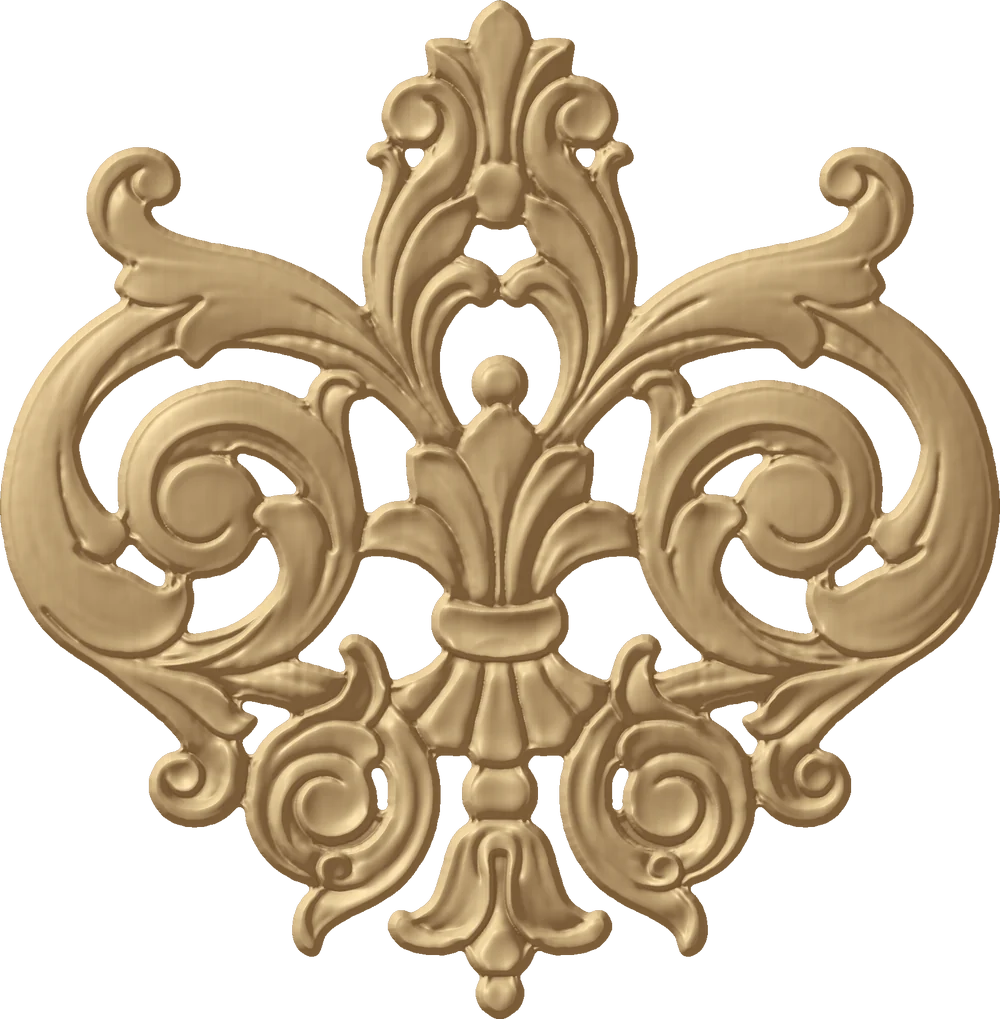
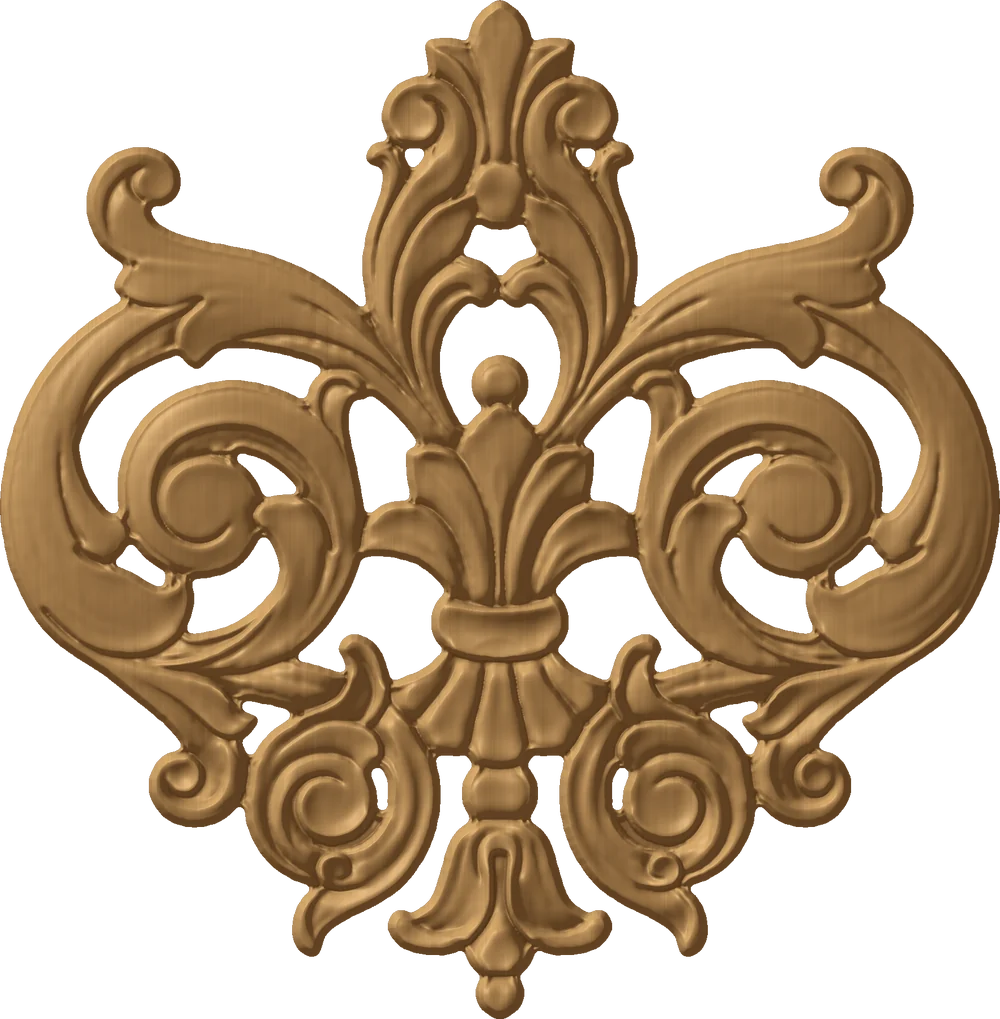
Дуб: готовый щит в цене, 3 104–5 919 лей
Материал — дубовый щит, калиброванный по толщине (T+1 мм), без
выравнивания на станке; подачи снижены для дуба, новые сроки.

Claude-Session: https://claude.ai/code/session_01KJBkVkUhEWh2dacgyC9bhs

diff --git a/index.html b/index.html
@@ -4,7 +4,7 @@
 <meta charset="utf-8">
 <meta name="viewport" content="width=device-width, initial-scale=1">
 <title>Коммерческое предложение: барочный орнамент 450 × 458 мм</title>
-<meta name="description" content="Барочный орнамент из липы 450 × 458 мм, 4 толщины: 9, 12, 20 и 30 мм. Изготовление на ЧПУ в Кишинёве из щита заказчика: от 2 239 до 4 134 лей.">
+<meta name="description" content="Барочный орнамент из дуба 450 × 458 мм, 4 толщины: 9, 12, 20 и 30 мм. Цена готового изделия от 3 104 до 5 919 лей. Изготовление на ЧПУ в Кишинёве.">
 <meta name="theme-color" content="#5E2A22">
 <style>@font-face{font-family:'Cormorant Garamond';font-style:normal;font-weight:600;font-display:swap;src:url(fonts/cormorant-garamond-cyrillic-600-normal.woff2) format('woff2');unicode-range:U+0301,U+0400-045F,U+0490-0491,U+04B0-04B1,U+2116}@font-face{font-family:'Cormorant Garamond';font-style:normal;font-weight:600;font-display:swap;src:url(fonts/cormorant-garamond-latin-600-normal.woff2) format('woff2');unicode-range:U+0000-00FF,U+0131,U+0152-0153,U+02BB-02BC,U+02C6,U+02DA,U+02DC,U+0304,U+0308,U+0329,U+2000-206F,U+20AC,U+2122,U+2191,U+2193,U+2212,U+2215,U+FEFF,U+FFFD}@font-face{font-family:'Golos Text';font-style:normal;font-weight:400;font-display:swap;src:url(fonts/golos-text-cyrillic-400-normal.woff2) format('woff2');unicode-range:U+0301,U+0400-045F,U+0490-0491,U+04B0-04B1,U+2116}@font-face{font-family:'Golos Text';font-style:normal;font-weight:400;font-display:swap;src:url(fonts/golos-text-latin-400-normal.woff2) format('woff2');unicode-range:U+0000-00FF,U+0131,U+0152-0153,U+02BB-02BC,U+02C6,U+02DA,U+02DC,U+0304,U+0308,U+0329,U+2000-206F,U+20AC,U+2122,U+2191,U+2193,U+2212,U+2215,U+FEFF,U+FFFD}@font-face{font-family:'Golos Text';font-style:normal;font-weight:500;font-display:swap;src:url(fonts/golos-text-cyrillic-500-normal.woff2) format('woff2');unicode-range:U+0301,U+0400-045F,U+0490-0491,U+04B0-04B1,U+2116}@font-face{font-family:'Golos Text';font-style:normal;font-weight:500;font-display:swap;src:url(fonts/golos-text-latin-500-normal.woff2) format('woff2');unicode-range:U+0000-00FF,U+0131,U+0152-0153,U+02BB-02BC,U+02C6,U+02DA,U+02DC,U+0304,U+0308,U+0329,U+2000-206F,U+20AC,U+2122,U+2191,U+2193,U+2212,U+2215,U+FEFF,U+FFFD}@font-face{font-family:'Golos Text';font-style:normal;font-weight:600;font-display:swap;src:url(fonts/golos-text-cyrillic-600-normal.woff2) format('woff2');unicode-range:U+0301,U+0400-045F,U+0490-0491,U+04B0-04B1,U+2116}@font-face{font-family:'Golos Text';font-style:normal;font-weight:600;font-display:swap;src:url(fonts/golos-text-latin-600-normal.woff2) format('woff2');unicode-range:U+0000-00FF,U+0131,U+0152-0153,U+02BB-02BC,U+02C6,U+02DA,U+02DC,U+0304,U+0308,U+0329,U+2000-206F,U+20AC,U+2122,U+2191,U+2193,U+2212,U+2215,U+FEFF,U+FFFD}
 :root{--bole:#5E2A22;--bole-deep:#43201A;--gilt:#C9A24E;--linden:#F2E6CC;--tint:#F7F1E5;--ink:#2B1D17;--muted:#6E5B4E;--rule:#E5DACA;
@@ -72,13 +72,13 @@ footer{background:var(--bole);color:var(--linden);margin-top:24px}
 <header class="hero"><div class="hero-in">
 <div class="copy">
 <p class="kicker">Коммерческое предложение от 25 ноября 2026 г.</p>
-<h1>Барочный орнамент из липы</h1>
+<h1>Барочный орнамент из дуба</h1>
 <p class="size">450 × 458 мм, на выбор четыре толщины: 9, 12, 20 и 30 мм</p>
-<p class="lead">Точная копия согласованной 3D-модели из вашего щита липы: объёмный рельеф с проработкой листьев и завитков, 20 ажурных отверстий, плавные скруглённые кромки без сколов. Изделие шлифуется, покрывается матовым лаком в 2 слоя и упаковывается — готово к продаже или монтажу.</p>
+<p class="lead">Точная копия согласованной 3D-модели в массиве дуба: объёмный рельеф с проработкой листьев и завитков, 20 ажурных отверстий, плавные скруглённые кромки без сколов. Изделие шлифуется, покрывается матовым лаком в 2 слоя и упаковывается — готово к продаже или монтажу.</p>
 <div class="actions"><a class="btn call" href="tel:+37361198777">Позвонить: 061 198 777</a><a class="btn" href="https://ornament-3th.pages.dev">Открыть 3D-модель</a></div>
 </div>
 <div class="figure"><svg class="dwg" viewBox="-14 -58 524 532" role="img" aria-labelledby="dwg-t">
-<title id="dwg-t">Орнамент из липы, габарит 450 на 458 мм</title>
+<title id="dwg-t">Орнамент из дуба, габарит 450 на 458 мм</title>
 <defs><filter id="sh" x="-10%" y="-10%" width="120%" height="125%"><feDropShadow dx="3" dy="9" stdDeviation="7" flood-color="#1d0b07" flood-opacity=".55"/></filter>
 <marker id="ar" viewBox="0 0 10 10" refX="10" refY="5" markerWidth="9" markerHeight="9" orient="auto-start-reverse"><path d="M0,1.5 L10,5 L0,8.5" fill="none" stroke="#C9A24E" stroke-width="1.4"/></marker></defs>
 <image href="ornament.webp" x="0" y="0" width="450" height="458.4" preserveAspectRatio="none" filter="url(#sh)"/>
@@ -93,38 +93,37 @@ footer{background:var(--bole);color:var(--linden);margin-top:24px}
 <main>
 <section id="cena">
 <h2>Цена готового изделия</h2>
-<p>Цена за 1 шт. включает изготовление на ЧПУ, ручную доработку, лак и упаковку; склеенный щит из липы — от заказчика. Чем толще изделие, тем глубже рельеф; сечения ниже показаны в одном масштабе.</p>
-<div class="opts"><div class="opt"><svg class="sec" viewBox="0 0 160 130" preserveAspectRatio="xMinYMax meet" role="img" aria-label="Сечение 9 мм в масштабе"><rect x="0" y="114.0" width="160" height="12.0" class="sec-base"/><path d="M0,114.0 L0.0,97.9 L5.0,99.3 L10.0,99.8 L15.0,99.1 L20.0,97.5 L25.0,95.4 L30.0,93.2 L35.0,91.5 L40.0,90.4 L45.0,90.0 L50.0,90.2 L55.0,90.7 L60.0,91.2 L65.0,91.5 L70.0,91.6 L75.0,91.5 L80.0,91.2 L85.0,91.0 L90.0,90.8 L95.0,90.7 L100.0,90.5 L105.0,90.3 L110.0,90.1 L115.0,90.0 L120.0,90.2 L125.0,90.8 L130.0,91.9 L135.0,93.6 L140.0,95.4 L145.0,97.0 L150.0,98.1 L155.0,98.2 L160.0,97.4 L160,114.0 Z" class="sec-relief"/><line x1="0" y1="126.5" x2="160" y2="126.5" class="sec-ground"/></svg><p class="opt-t">9 мм</p><p class="opt-p">2 239 лей</p><p class="opt-d">Рельеф до 6 мм<br>Станок 5,0 ч</p></div>
-<div class="opt"><svg class="sec" viewBox="0 0 160 130" preserveAspectRatio="xMinYMax meet" role="img" aria-label="Сечение 12 мм в масштабе"><rect x="0" y="114.0" width="160" height="12.0" class="sec-base"/><path d="M0,114.0 L0.0,89.8 L5.0,92.0 L10.0,92.7 L15.0,91.7 L20.0,89.3 L25.0,86.1 L30.0,82.8 L35.0,80.2 L40.0,78.6 L45.0,78.0 L50.0,78.3 L55.0,79.0 L60.0,79.8 L65.0,80.3 L70.0,80.4 L75.0,80.2 L80.0,79.8 L85.0,79.5 L90.0,79.2 L95.0,79.0 L100.0,78.8 L105.0,78.5 L110.0,78.2 L115.0,78.0 L120.0,78.3 L125.0,79.2 L130.0,80.9 L135.0,83.3 L140.0,86.1 L145.0,88.5 L150.0,90.1 L155.0,90.3 L160.0,89.1 L160,114.0 Z" class="sec-relief"/><line x1="0" y1="126.5" x2="160" y2="126.5" class="sec-ground"/></svg><p class="opt-t">12 мм</p><p class="opt-p">2 479 лей</p><p class="opt-d">Рельеф до 9 мм<br>Станок 5,8 ч</p></div>
-<div class="opt"><svg class="sec" viewBox="0 0 160 130" preserveAspectRatio="xMinYMax meet" role="img" aria-label="Сечение 20 мм в масштабе"><rect x="0" y="114.0" width="160" height="12.0" class="sec-base"/><path d="M0,114.0 L0.0,68.3 L5.0,72.5 L10.0,73.7 L15.0,71.8 L20.0,67.3 L25.0,61.3 L30.0,55.2 L35.0,50.2 L40.0,47.1 L45.0,46.0 L50.0,46.5 L55.0,47.9 L60.0,49.3 L65.0,50.3 L70.0,50.5 L75.0,50.1 L80.0,49.5 L85.0,48.8 L90.0,48.4 L95.0,48.0 L100.0,47.5 L105.0,46.9 L110.0,46.3 L115.0,46.0 L120.0,46.5 L125.0,48.2 L130.0,51.5 L135.0,56.1 L140.0,61.2 L145.0,65.9 L150.0,68.8 L155.0,69.3 L160.0,67.0 L160,114.0 Z" class="sec-relief"/><line x1="0" y1="126.5" x2="160" y2="126.5" class="sec-ground"/></svg><p class="opt-t">20 мм</p><p class="opt-p">3 194 лея</p><p class="opt-d">Рельеф до 17 мм<br>Станок 7,9 ч</p></div>
-<div class="opt"><svg class="sec" viewBox="0 0 160 130" preserveAspectRatio="xMinYMax meet" role="img" aria-label="Сечение 30 мм в масштабе"><rect x="0" y="114.0" width="160" height="12.0" class="sec-base"/><path d="M0,114.0 L0.0,41.5 L5.0,48.1 L10.0,50.0 L15.0,47.0 L20.0,39.8 L25.0,30.3 L30.0,20.5 L35.0,12.6 L40.0,7.7 L45.0,6.0 L50.0,6.8 L55.0,9.0 L60.0,11.3 L65.0,12.8 L70.0,13.1 L75.0,12.6 L80.0,11.5 L85.0,10.5 L90.0,9.7 L95.0,9.1 L100.0,8.4 L105.0,7.5 L110.0,6.5 L115.0,6.0 L120.0,6.8 L125.0,9.6 L130.0,14.8 L135.0,22.0 L140.0,30.2 L145.0,37.5 L150.0,42.3 L155.0,43.0 L160.0,39.4 L160,114.0 Z" class="sec-relief"/><line x1="0" y1="126.5" x2="160" y2="126.5" class="sec-ground"/></svg><p class="opt-t">30 мм</p><p class="opt-p">4 134 лея</p><p class="opt-d">Рельеф до 27 мм<br>Станок 10,5 ч</p></div></div>
+<p>Цена за 1 шт. включает материал, изготовление на ЧПУ, ручную доработку, лак и упаковку. Чем толще изделие, тем глубже рельеф; сечения ниже показаны в одном масштабе.</p>
+<div class="opts"><div class="opt"><svg class="sec" viewBox="0 0 160 130" preserveAspectRatio="xMinYMax meet" role="img" aria-label="Сечение 9 мм в масштабе"><rect x="0" y="114.0" width="160" height="12.0" class="sec-base"/><path d="M0,114.0 L0.0,97.9 L5.0,99.3 L10.0,99.8 L15.0,99.1 L20.0,97.5 L25.0,95.4 L30.0,93.2 L35.0,91.5 L40.0,90.4 L45.0,90.0 L50.0,90.2 L55.0,90.7 L60.0,91.2 L65.0,91.5 L70.0,91.6 L75.0,91.5 L80.0,91.2 L85.0,91.0 L90.0,90.8 L95.0,90.7 L100.0,90.5 L105.0,90.3 L110.0,90.1 L115.0,90.0 L120.0,90.2 L125.0,90.8 L130.0,91.9 L135.0,93.6 L140.0,95.4 L145.0,97.0 L150.0,98.1 L155.0,98.2 L160.0,97.4 L160,114.0 Z" class="sec-relief"/><line x1="0" y1="126.5" x2="160" y2="126.5" class="sec-ground"/></svg><p class="opt-t">9 мм</p><p class="opt-p">3 104 лея</p><p class="opt-d">Рельеф до 6 мм<br>Станок 6,5 ч</p></div>
+<div class="opt"><svg class="sec" viewBox="0 0 160 130" preserveAspectRatio="xMinYMax meet" role="img" aria-label="Сечение 12 мм в масштабе"><rect x="0" y="114.0" width="160" height="12.0" class="sec-base"/><path d="M0,114.0 L0.0,89.8 L5.0,92.0 L10.0,92.7 L15.0,91.7 L20.0,89.3 L25.0,86.1 L30.0,82.8 L35.0,80.2 L40.0,78.6 L45.0,78.0 L50.0,78.3 L55.0,79.0 L60.0,79.8 L65.0,80.3 L70.0,80.4 L75.0,80.2 L80.0,79.8 L85.0,79.5 L90.0,79.2 L95.0,79.0 L100.0,78.8 L105.0,78.5 L110.0,78.2 L115.0,78.0 L120.0,78.3 L125.0,79.2 L130.0,80.9 L135.0,83.3 L140.0,86.1 L145.0,88.5 L150.0,90.1 L155.0,90.3 L160.0,89.1 L160,114.0 Z" class="sec-relief"/><line x1="0" y1="126.5" x2="160" y2="126.5" class="sec-ground"/></svg><p class="opt-t">12 мм</p><p class="opt-p">3 474 лея</p><p class="opt-d">Рельеф до 9 мм<br>Станок 7,6 ч</p></div>
+<div class="opt"><svg class="sec" viewBox="0 0 160 130" preserveAspectRatio="xMinYMax meet" role="img" aria-label="Сечение 20 мм в масштабе"><rect x="0" y="114.0" width="160" height="12.0" class="sec-base"/><path d="M0,114.0 L0.0,68.3 L5.0,72.5 L10.0,73.7 L15.0,71.8 L20.0,67.3 L25.0,61.3 L30.0,55.2 L35.0,50.2 L40.0,47.1 L45.0,46.0 L50.0,46.5 L55.0,47.9 L60.0,49.3 L65.0,50.3 L70.0,50.5 L75.0,50.1 L80.0,49.5 L85.0,48.8 L90.0,48.4 L95.0,48.0 L100.0,47.5 L105.0,46.9 L110.0,46.3 L115.0,46.0 L120.0,46.5 L125.0,48.2 L130.0,51.5 L135.0,56.1 L140.0,61.2 L145.0,65.9 L150.0,68.8 L155.0,69.3 L160.0,67.0 L160,114.0 Z" class="sec-relief"/><line x1="0" y1="126.5" x2="160" y2="126.5" class="sec-ground"/></svg><p class="opt-t">20 мм</p><p class="opt-p">4 574 лея</p><p class="opt-d">Рельеф до 17 мм<br>Станок 10,6 ч</p></div>
+<div class="opt"><svg class="sec" viewBox="0 0 160 130" preserveAspectRatio="xMinYMax meet" role="img" aria-label="Сечение 30 мм в масштабе"><rect x="0" y="114.0" width="160" height="12.0" class="sec-base"/><path d="M0,114.0 L0.0,41.5 L5.0,48.1 L10.0,50.0 L15.0,47.0 L20.0,39.8 L25.0,30.3 L30.0,20.5 L35.0,12.6 L40.0,7.7 L45.0,6.0 L50.0,6.8 L55.0,9.0 L60.0,11.3 L65.0,12.8 L70.0,13.1 L75.0,12.6 L80.0,11.5 L85.0,10.5 L90.0,9.7 L95.0,9.1 L100.0,8.4 L105.0,7.5 L110.0,6.5 L115.0,6.0 L120.0,6.8 L125.0,9.6 L130.0,14.8 L135.0,22.0 L140.0,30.2 L145.0,37.5 L150.0,42.3 L155.0,43.0 L160.0,39.4 L160,114.0 Z" class="sec-relief"/><line x1="0" y1="126.5" x2="160" y2="126.5" class="sec-ground"/></svg><p class="opt-t">30 мм</p><p class="opt-p">5 919 лей</p><p class="opt-d">Рельеф до 27 мм<br>Станок 14,1 ч</p></div></div>
 <p class="note">Время станка расчётное, по объёму снимаемого материала и длине траекторий.</p>
 </section>
 <section id="material">
-<h2>Материал заказчика: склеенный щит из липы</h2>
-<p>Заказчик передаёт готовый склеенный щит из сухой липы — по одному на каждое изделие. Липа мягкая и однородная, поэтому мелкие детали рельефа фрезеруются чисто, без ворса, а изделие хорошо принимает масло, лак, патину или золочение.</p>
-<div class="tw"><table class=""><thead><tr><th>Параметр</th><th>Требование</th></tr></thead><tbody><tr><td>Порода</td><td>липа, влажность 8–10 %</td></tr><tr><td>Склейка</td><td>по кромке, клей класса D3, без щелей</td></tr><tr><td>Размер</td><td>не менее 480 × 490 мм</td></tr><tr><td>Толщина</td><td>на 1–5 мм толще изделия: 10–14 мм для 9 мм, 13–17 мм для 12 мм, 21–25 мм для 20 мм, 31–35 мм для 30 мм</td></tr><tr><td>Качество</td><td>без трещин, гнили и выпадающих сучков; прогиб не более 1 мм</td></tr></tbody></table></div>
-<p class="note">Запас по 15 мм с каждой стороны нужен для крепления щита на станке; до точной толщины щит выравнивает станок. Если щит толще, лишнее тоже снимается — +70 лей за каждые 5 мм.</p>
+<h2>Материал: дубовый мебельный щит, 320–600 лей на изделие</h2>
+<p>Все четыре варианта изготавливаются из готового мебельного щита из сухого дуба (сорт A/B, клей D3). Дуб прочный и не боится ударов, а его выразительная текстура делает рельеф богаче; изделие хорошо принимает лак, масло, патину или золочение.</p>
+<div class="tw"><table class=""><thead><tr><th>Толщина изделия</th><th>Щит</th><th>Размер</th><th class="num">Цена</th></tr></thead><tbody><tr><td>9 мм</td><td>дуб, 10 мм</td><td>500 × 500 мм</td><td class="num">320 лей</td></tr><tr><td>12 мм</td><td>дуб, 13 мм</td><td>500 × 500 мм</td><td class="num">360 лей</td></tr><tr><td>20 мм</td><td>дуб, 21 мм</td><td>500 × 500 мм</td><td class="num">470 лей</td></tr><tr><td>30 мм</td><td>дуб, 31 мм</td><td>500 × 500 мм</td><td class="num">600 лей</td></tr></tbody></table></div>
+<p class="note">Щит 500 × 500 мм заказывается в столярном цехе в Кишинёве уже склеенным и откалиброванным по толщине — на 1 мм толще изделия, поэтому станок не тратит время на выравнивание, а лишнего материала в цене нет.</p>
 </section>
 <section id="tehnologia">
-<h2>Технология: 7 операций на ЧПУ, от 5 до 10,5 часа</h2>
-<p>Рельеф фрезеруется тремя фрезами по управляющей программе из Fusion 360. Сначала станок выравнивает склеенный щит до толщины изделия, затем черновая фреза Ø6 мм снимает основной объём, фреза Ø3 мм дорабатывает узкие места и отверстия, а сферическая фреза R1,5 мм проходит всю поверхность с шагом 0,4 мм. Следы фрезы — около 0,01 мм, они полностью уходят при шлифовке, а мелкие детали сохраняются. Деталь вырезается по контуру последней и держится на 6 перемычках, поэтому не смещается и не скалывается.</p>
-<div class="tw"><table class="ops"><thead><tr><th>Операция</th><th>Фреза</th><th class="num">9 мм, мин</th><th class="num">12 мм, мин</th><th class="num">20 мм, мин</th><th class="num">30 мм, мин</th></tr></thead><tbody><tr><td>0. Выравнивание щита до толщины</td><td>Ø6 мм</td><td class="num">14</td><td class="num">14</td><td class="num">14</td><td class="num">14</td></tr><tr><td>1. Черновая выборка рельефа</td><td>Ø6 мм</td><td class="num">62</td><td class="num">89</td><td class="num">154</td><td class="num">230</td></tr><tr><td>2. Доработка узких мест рельефа</td><td>Ø3 мм</td><td class="num">31</td><td class="num">42</td><td class="num">73</td><td class="num">111</td></tr><tr><td>3. Сквозная выборка отверстий (20 шт.)</td><td>Ø3 мм</td><td class="num">16</td><td class="num">16</td><td class="num">16</td><td class="num">16</td></tr><tr><td>4. Чистовая обработка стенок отверстий</td><td>Ø3 мм</td><td class="num">9</td><td class="num">9</td><td class="num">14</td><td class="num">19</td></tr><tr><td>5. Чистовая обработка рельефа, шаг 0,4 мм</td><td>R1,5 мм</td><td class="num">139</td><td class="num">144</td><td class="num">162</td><td class="num">188</td></tr><tr><td>6. Вырезка по контуру с перемычками</td><td>Ø3 мм</td><td class="num">8</td><td class="num">10</td><td class="num">14</td><td class="num">18</td></tr><tr><td>Переходы и 3 смены фрез</td><td></td><td class="num">18</td><td class="num">21</td><td class="num">28</td><td class="num">34</td></tr><tr class="total"><td>Итого</td><td></td><td class="num">297 ≈ 5,0 ч</td><td class="num">345 ≈ 5,8 ч</td><td class="num">475 ≈ 7,9 ч</td><td class="num">630 ≈ 10,5 ч</td></tr></tbody></table></div>
+<h2>Технология: 6 операций на ЧПУ, от 6,5 до 14,1 часа</h2>
+<p>Рельеф фрезеруется тремя фрезами по управляющей программе из Fusion 360. Черновая фреза Ø6 мм снимает основной объём, фреза Ø3 мм дорабатывает узкие места и отверстия, а сферическая фреза R1,5 мм проходит всю поверхность с шагом 0,4 мм. Дуб в 2–3 раза твёрже липы, поэтому подачи снижены примерно на 30 %: так рельеф не подгорает и не скалывается. Следы фрезы — около 0,01 мм, они полностью уходят при шлифовке, а мелкие детали сохраняются. Деталь вырезается по контуру последней и держится на 6 перемычках, поэтому не смещается и не скалывается.</p>
+<div class="tw"><table class="ops"><thead><tr><th>Операция</th><th>Фреза</th><th class="num">9 мм, мин</th><th class="num">12 мм, мин</th><th class="num">20 мм, мин</th><th class="num">30 мм, мин</th></tr></thead><tbody><tr><td>1. Черновая выборка рельефа</td><td>Ø6 мм</td><td class="num">86</td><td class="num">124</td><td class="num">214</td><td class="num">319</td></tr><tr><td>2. Доработка узких мест рельефа</td><td>Ø3 мм</td><td class="num">43</td><td class="num">58</td><td class="num">101</td><td class="num">154</td></tr><tr><td>3. Сквозная выборка отверстий (20 шт.)</td><td>Ø3 мм</td><td class="num">22</td><td class="num">22</td><td class="num">22</td><td class="num">22</td></tr><tr><td>4. Чистовая обработка стенок отверстий</td><td>Ø3 мм</td><td class="num">12</td><td class="num">12</td><td class="num">19</td><td class="num">26</td></tr><tr><td>5. Чистовая обработка рельефа, шаг 0,4 мм</td><td>R1,5 мм</td><td class="num">195</td><td class="num">202</td><td class="num">227</td><td class="num">263</td></tr><tr><td>6. Вырезка по контуру с перемычками</td><td>Ø3 мм</td><td class="num">11</td><td class="num">14</td><td class="num">19</td><td class="num">25</td></tr><tr><td>Переходы и 3 смены фрез</td><td></td><td class="num">20</td><td class="num">23</td><td class="num">31</td><td class="num">37</td></tr><tr class="total"><td>Итого</td><td></td><td class="num">389 ≈ 6,5 ч</td><td class="num">455 ≈ 7,6 ч</td><td class="num">633 ≈ 10,6 ч</td><td class="num">846 ≈ 14,1 ч</td></tr></tbody></table></div>
 <p class="note">После станка: срезка перемычек, шлифовка P180–P240, матовый акриловый лак в 2 слоя с промежуточной шлифовкой, сушка и упаковка.</p>
 </section>
 <section id="raschet">
 <h2>Из чего складывается цена</h2>
-<p>67–76 % цены составляет работа станка по ставке 300 лей/ч. Ручные работы считаются по 150 лей/ч.</p>
-<div class="tw"><table class="cost"><thead><tr><th>Статья, лей</th><th class="num">9 мм</th><th class="num">12 мм</th><th class="num">20 мм</th><th class="num">30 мм</th></tr></thead><tbody><tr><td>Подготовка программы и наладка станка</td><td class="num">150 (1 ч)</td><td class="num">150 (1 ч)</td><td class="num">150 (1 ч)</td><td class="num">150 (1 ч)</td></tr><tr><td>Фрезеровка на ЧПУ, 300 лей/ч</td><td class="num">1 500 (5,0 ч)</td><td class="num">1 740 (5,8 ч)</td><td class="num">2 370 (7,9 ч)</td><td class="num">3 150 (10,5 ч)</td></tr><tr><td>Ручная доработка: перемычки, шлифовка</td><td class="num">225 (1,5 ч)</td><td class="num">225 (1,5 ч)</td><td class="num">300 (2 ч)</td><td class="num">375 (2,5 ч)</td></tr><tr><td>Абразивы P120–P240</td><td class="num">40</td><td class="num">40</td><td class="num">50</td><td class="num">60</td></tr><tr><td>Лак акриловый матовый</td><td class="num">94</td><td class="num">94</td><td class="num">94</td><td class="num">94</td></tr><tr><td>Нанесение покрытия, 2 слоя</td><td class="num">150 (1 ч)</td><td class="num">150 (1 ч)</td><td class="num">150 (1 ч)</td><td class="num">225 (1,5 ч)</td></tr><tr><td>Упаковка: коробка, плёнка, скотч</td><td class="num">80</td><td class="num">80</td><td class="num">80</td><td class="num">80</td></tr><tr class="total"><td>Итого за 1 шт.</td><td class="num">2 239</td><td class="num">2 479</td><td class="num">3 194</td><td class="num">4 134</td></tr></tbody></table></div>
+<p>63–72 % цены составляет работа станка по ставке 300 лей/ч. Ручные работы считаются по 150 лей/ч.</p>
+<div class="tw"><table class="cost"><thead><tr><th>Статья, лей</th><th class="num">9 мм</th><th class="num">12 мм</th><th class="num">20 мм</th><th class="num">30 мм</th></tr></thead><tbody><tr><td>Дубовый щит, калиброванный по толщине</td><td class="num">320</td><td class="num">360</td><td class="num">470</td><td class="num">600</td></tr><tr><td>Подготовка программы и наладка станка</td><td class="num">150 (1 ч)</td><td class="num">150 (1 ч)</td><td class="num">150 (1 ч)</td><td class="num">150 (1 ч)</td></tr><tr><td>Фрезеровка на ЧПУ, 300 лей/ч</td><td class="num">1 950 (6,5 ч)</td><td class="num">2 280 (7,6 ч)</td><td class="num">3 180 (10,6 ч)</td><td class="num">4 230 (14,1 ч)</td></tr><tr><td>Ручная доработка: перемычки, шлифовка</td><td class="num">300 (2 ч)</td><td class="num">300 (2 ч)</td><td class="num">375 (2,5 ч)</td><td class="num">450 (3 ч)</td></tr><tr><td>Абразивы P120–P240</td><td class="num">60</td><td class="num">60</td><td class="num">75</td><td class="num">90</td></tr><tr><td>Лак акриловый матовый</td><td class="num">94</td><td class="num">94</td><td class="num">94</td><td class="num">94</td></tr><tr><td>Нанесение покрытия, 2 слоя</td><td class="num">150 (1 ч)</td><td class="num">150 (1 ч)</td><td class="num">150 (1 ч)</td><td class="num">225 (1,5 ч)</td></tr><tr><td>Упаковка: коробка, плёнка, скотч</td><td class="num">80</td><td class="num">80</td><td class="num">80</td><td class="num">80</td></tr><tr class="total"><td>Итого за 1 шт.</td><td class="num">3 104</td><td class="num">3 474</td><td class="num">4 574</td><td class="num">5 919</td></tr></tbody></table></div>
 <p class="note">Ставка станка включает электроэнергию и износ фрез. Материалы для отделки по ценам Кишинёва: <a href="https://supraten.md/lacuri-67-ro">лак-спрей матовый 400 мл</a> — 94 лея (один баллон на изделие), <a href="https://supraten.md/abrazive-1105-ro">шлифовальные диски 125 мм</a> — от 3 лей в Supraten; коробка 60 × 50 × 50 см — 50 лей и пузырчатая плёнка 120 × 100 см — 20 лей в <a href="https://999.md/ro/59697416">Ambalaje.md</a>. Абразивы учтены по расходу на одно изделие.</p>
 </section>
 <section id="uslovia">
 <h2>Условия заказа</h2>
-<dl><div class="term"><dt>Входит в цену</dt><dd>изготовление на ЧПУ, ручная доработка и шлифовка, матовый лак в 2 слоя, упаковка.</dd></div>
-<div class="term"><dt>Не входит</dt><dd>щит из липы (материал заказчика), доставка (по Кишинёву по договорённости), монтаж, тонировка и золочение.</dd></div>
+<dl><div class="term"><dt>Входит в цену</dt><dd>материал (дубовый щит), изготовление на ЧПУ, ручная доработка и шлифовка, матовый лак в 2 слоя, упаковка.</dd></div>
+<div class="term"><dt>Не входит</dt><dd>доставка (по Кишинёву по договорённости), монтаж, тонировка и золочение.</dd></div>
 <div class="term"><dt>По желанию</dt><dd>патина «под золото» по выступам рельефа, +323 лея: перламутровый лак <a href="https://supraten.md/lac-sidefiu-perla-aur-02kg-106679-ro">Perla Aur 200 г</a> за 98 лей и 1,5 ч работы.</dd></div>
-<div class="term"><dt>Срок изготовления</dt><dd>9 и 12 мм — 3–4 рабочих дня, 20 и 30 мм — 4–6 рабочих дней после получения щита и предоплаты; в срок входит сушка лака.</dd></div>
-<div class="term"><dt>Материал заказчика</dt><dd>щит проверяется при приёмке; за скрытые дефекты древесины и склейки исполнитель не отвечает.</dd></div>
+<div class="term"><dt>Срок изготовления</dt><dd>9 и 12 мм — 5–7 рабочих дней, 20 и 30 мм — 7–10 рабочих дней после предоплаты; в срок входят изготовление щита в цеху и сушка лака.</dd></div>
 <div class="term"><dt>Оплата</dt><dd>50 % предоплата, 50 % при получении. Цены в леях (MDL).</dd></div>
 <div class="term"><dt>Точность</dt><dd>габарит 450 × 458 мм ±0,5 мм, толщина ±0,3 мм; рисунок древесины у каждого изделия свой.</dd></div>
 <div class="term"><dt>Срок действия</dt><dd>14 дней, до 9 декабря 2026 г.</dd></div></dl>

diff --git a/README.md b/README.md
@@ -2,75 +2,73 @@
 
 25 ноября 2026 г. · Lilian Pascari, тел. 061 198 777
 
-![Орнамент из липы](ornament.webp)
+![Орнамент из дуба](ornament.webp)
 
 Веб-версия предложения: [index.html](index.html). Интерактивная 3D-модель всех толщин: [ornament-3th.pages.dev](https://ornament-3th.pages.dev)
 
-## Итог: орнамент из вашего щита — от 2 239 до 4 134 лей
+## Итог: дубовый орнамент от 3 104 до 5 919 лей
 
-Изготовим барочный орнамент 450 × 458 мм из вашего склеенного щита липы — точную копию согласованной 3D-модели: объёмный рельеф с проработкой листьев и завитков, 20 ажурных отверстий, плавные скруглённые кромки без сколов. Изделие шлифуется, покрывается матовым лаком в 2 слоя и упаковывается — готово к продаже или монтажу.
+Изготовим из дуба барочный орнамент 450 × 458 мм — точную копию согласованной 3D-модели: объёмный рельеф с проработкой листьев и завитков, 20 ажурных отверстий, плавные скруглённые кромки без сколов. Изделие шлифуется, покрывается матовым лаком в 2 слоя и упаковывается — готово к продаже или монтажу.
 
 | Толщина | Глубина рельефа | Время на ЧПУ | Цена за 1 шт. |
 | --- | --- | --- | --- |
-| 9 мм | до 6 мм | 5,0 ч | **2 239 лей** |
-| 12 мм | до 9 мм | 5,8 ч | **2 479 лей** |
-| 20 мм | до 17 мм | 7,9 ч | **3 194 лея** |
-| 30 мм | до 27 мм | 10,5 ч | **4 134 лея** |
+| 9 мм | до 6 мм | 6,5 ч | **3 104 лея** |
+| 12 мм | до 9 мм | 7,6 ч | **3 474 лея** |
+| 20 мм | до 17 мм | 10,6 ч | **4 574 лея** |
+| 30 мм | до 27 мм | 14,1 ч | **5 919 лей** |
 
-## Материал заказчика: склеенный щит из липы
+## Материал: дубовый мебельный щит, 320–600 лей на изделие
 
-Заказчик передаёт готовый склеенный щит из сухой липы — по одному на каждое изделие. Липа мягкая и однородная, поэтому мелкие детали рельефа фрезеруются чисто, без ворса, а изделие хорошо принимает масло, лак, патину или золочение.
+Все четыре варианта изготавливаются из готового мебельного щита из сухого дуба (сорт A/B, клей D3). Дуб прочный и не боится ударов, а его выразительная текстура делает рельеф богаче; изделие хорошо принимает лак, масло, патину или золочение.
 
-| Параметр | Требование |
-| --- | --- |
-| Порода | липа, влажность 8–10 % |
-| Склейка | по кромке, клей класса D3, без щелей |
-| Размер | не менее 480 × 490 мм |
-| Толщина | на 1–5 мм толще изделия: 10–14 мм для 9 мм, 13–17 мм для 12 мм, 21–25 мм для 20 мм, 31–35 мм для 30 мм |
-| Качество | без трещин, гнили и выпадающих сучков; прогиб не более 1 мм |
+| Толщина изделия | Щит | Размер | Цена |
+| --- | --- | --- | ---: |
+| 9 мм | дуб, 10 мм | 500 × 500 мм | 320 лей |
+| 12 мм | дуб, 13 мм | 500 × 500 мм | 360 лей |
+| 20 мм | дуб, 21 мм | 500 × 500 мм | 470 лей |
+| 30 мм | дуб, 31 мм | 500 × 500 мм | 600 лей |
 
-Запас по 15 мм с каждой стороны нужен для крепления щита на станке; до точной толщины щит выравнивает станок. Если щит толще, лишнее тоже снимается — +70 лей за каждые 5 мм.
+Щит 500 × 500 мм заказывается в столярном цехе в Кишинёве уже склеенным и откалиброванным по толщине — на 1 мм толще изделия, поэтому станок не тратит время на выравнивание, а лишнего материала в цене нет.
 
-## Технология: 7 операций на ЧПУ, от 5 до 10,5 часа
+## Технология: 6 операций на ЧПУ, от 6,5 до 14,1 часа
 
-Рельеф фрезеруется тремя фрезами по управляющей программе из Fusion 360. Сначала станок выравнивает склеенный щит до толщины изделия, затем черновая фреза Ø6 мм снимает основной объём, фреза Ø3 мм дорабатывает узкие места и отверстия, а сферическая фреза R1,5 мм проходит всю поверхность с шагом 0,4 мм. Следы фрезы — около 0,01 мм, они полностью уходят при шлифовке, а мелкие детали сохраняются. Деталь вырезается по контуру последней и держится на 6 перемычках, поэтому не смещается и не скалывается.
+Рельеф фрезеруется тремя фрезами по управляющей программе из Fusion 360. Черновая фреза Ø6 мм снимает основной объём, фреза Ø3 мм дорабатывает узкие места и отверстия, а сферическая фреза R1,5 мм проходит всю поверхность с шагом 0,4 мм. Дуб в 2–3 раза твёрже липы, поэтому подачи снижены примерно на 30 %: так рельеф не подгорает и не скалывается. Следы фрезы — около 0,01 мм, они полностью уходят при шлифовке, а мелкие детали сохраняются. Деталь вырезается по контуру последней и держится на 6 перемычках, поэтому не смещается и не скалывается.
 
 | Операция | Фреза | 9 мм | 12 мм | 20 мм | 30 мм |
 | --- | --- | ---: | ---: | ---: | ---: |
-| 0. Выравнивание щита до толщины | Ø6 мм | 14 мин | 14 мин | 14 мин | 14 мин |
-| 1. Черновая выборка рельефа | Ø6 мм | 62 мин | 89 мин | 154 мин | 230 мин |
-| 2. Доработка узких мест рельефа | Ø3 мм | 31 мин | 42 мин | 73 мин | 111 мин |
-| 3. Сквозная выборка отверстий (20 шт.) | Ø3 мм | 16 мин | 16 мин | 16 мин | 16 мин |
-| 4. Чистовая обработка стенок отверстий | Ø3 мм | 9 мин | 9 мин | 14 мин | 19 мин |
-| 5. Чистовая обработка рельефа, шаг 0,4 мм | R1,5 мм | 139 мин | 144 мин | 162 мин | 188 мин |
-| 6. Вырезка по контуру с перемычками | Ø3 мм | 8 мин | 10 мин | 14 мин | 18 мин |
-| Переходы и 3 смены фрез | — | 18 мин | 21 мин | 28 мин | 34 мин |
-| **Итого** | | **297 мин ≈ 5,0 ч** | **345 мин ≈ 5,8 ч** | **475 мин ≈ 7,9 ч** | **630 мин ≈ 10,5 ч** |
+| 1. Черновая выборка рельефа | Ø6 мм | 86 мин | 124 мин | 214 мин | 319 мин |
+| 2. Доработка узких мест рельефа | Ø3 мм | 43 мин | 58 мин | 101 мин | 154 мин |
+| 3. Сквозная выборка отверстий (20 шт.) | Ø3 мм | 22 мин | 22 мин | 22 мин | 22 мин |
+| 4. Чистовая обработка стенок отверстий | Ø3 мм | 12 мин | 12 мин | 19 мин | 26 мин |
+| 5. Чистовая обработка рельефа, шаг 0,4 мм | R1,5 мм | 195 мин | 202 мин | 227 мин | 263 мин |
+| 6. Вырезка по контуру с перемычками | Ø3 мм | 11 мин | 14 мин | 19 мин | 25 мин |
+| Переходы и 3 смены фрез | — | 20 мин | 23 мин | 31 мин | 37 мин |
+| **Итого** | | **389 мин ≈ 6,5 ч** | **455 мин ≈ 7,6 ч** | **633 мин ≈ 10,6 ч** | **846 мин ≈ 14,1 ч** |
 
 Время расчётное: по объёму снимаемого материала и длине траекторий. После станка: срезка перемычек, шлифовка P180–P240, матовый акриловый лак в 2 слоя с промежуточной шлифовкой, сушка и упаковка.
 
-## Расчёт стоимости: 67–76 % цены — работа станка
+## Расчёт стоимости: 63–72 % цены — работа станка
 
 | Статья, лей | 9 мм | 12 мм | 20 мм | 30 мм |
 | --- | ---: | ---: | ---: | ---: |
+| Дубовый щит, калиброванный по толщине | 320 | 360 | 470 | 600 |
 | Подготовка программы и наладка станка | 150 (1 ч) | 150 (1 ч) | 150 (1 ч) | 150 (1 ч) |
-| Фрезеровка на ЧПУ, 300 лей/ч | 1 500 (5,0 ч) | 1 740 (5,8 ч) | 2 370 (7,9 ч) | 3 150 (10,5 ч) |
-| Ручная доработка: перемычки, шлифовка | 225 (1,5 ч) | 225 (1,5 ч) | 300 (2 ч) | 375 (2,5 ч) |
-| Абразивы P120–P240 | 40 | 40 | 50 | 60 |
+| Фрезеровка на ЧПУ, 300 лей/ч | 1 950 (6,5 ч) | 2 280 (7,6 ч) | 3 180 (10,6 ч) | 4 230 (14,1 ч) |
+| Ручная доработка: перемычки, шлифовка | 300 (2 ч) | 300 (2 ч) | 375 (2,5 ч) | 450 (3 ч) |
+| Абразивы P120–P240 | 60 | 60 | 75 | 90 |
 | Лак акриловый матовый | 94 | 94 | 94 | 94 |
 | Нанесение покрытия, 2 слоя | 150 (1 ч) | 150 (1 ч) | 150 (1 ч) | 225 (1,5 ч) |
 | Упаковка: коробка, плёнка, скотч | 80 | 80 | 80 | 80 |
-| **Итого за 1 шт.** | **2 239** | **2 479** | **3 194** | **4 134** |
+| **Итого за 1 шт.** | **3 104** | **3 474** | **4 574** | **5 919** |
 
 Ручные работы — 150 лей/ч; ставка станка 300 лей/ч включает электроэнергию и износ фрез. Материалы для отделки — по ценам Кишинёва: [лак-спрей матовый 400 мл](https://supraten.md/lacuri-67-ro) — 94 лея (один баллон на изделие), [шлифовальные диски 125 мм](https://supraten.md/abrazive-1105-ro) — от 3 лей в Supraten; коробка 60 × 50 × 50 см — 50 лей и пузырчатая плёнка 120 × 100 см — 20 лей в [Ambalaje.md](https://999.md/ro/59697416). Абразивы учтены по расходу на одно изделие.
 
 ## Условия заказа
 
-- **Входит в цену:** изготовление на ЧПУ, ручная доработка и шлифовка, матовый лак в 2 слоя, упаковка.
-- **Не входит:** щит из липы (материал заказчика), доставка (по Кишинёву — по договорённости), монтаж, тонировка и золочение.
+- **Входит в цену:** материал (дубовый щит), изготовление на ЧПУ, ручная доработка и шлифовка, матовый лак в 2 слоя, упаковка.
+- **Не входит:** доставка (по Кишинёву — по договорённости), монтаж, тонировка и золочение.
 - **По желанию:** патина «под золото» по выступам рельефа — +323 лея (перламутровый лак [Perla Aur 200 г](https://supraten.md/lac-sidefiu-perla-aur-02kg-106679-ro) — 98 лей, 1,5 ч работы).
-- **Срок изготовления:** 9 и 12 мм — 3–4 рабочих дня, 20 и 30 мм — 4–6 рабочих дней после получения щита и предоплаты; в срок входит сушка лака.
-- **Материал заказчика:** щит проверяется при приёмке; за скрытые дефекты древесины и склейки исполнитель не отвечает.
+- **Срок изготовления:** 9 и 12 мм — 5–7 рабочих дней, 20 и 30 мм — 7–10 рабочих дней после предоплаты; в срок входят изготовление щита в цеху и сушка лака.
 - **Оплата:** 50 % предоплата, 50 % при получении. Цены в леях (MDL).
 - **Точность:** габарит 450 × 458 мм ±0,5 мм, толщина ±0,3 мм; рисунок древесины у каждого изделия свой.
 - **Предложение действует** 14 дней — до 9 декабря 2026 г.
